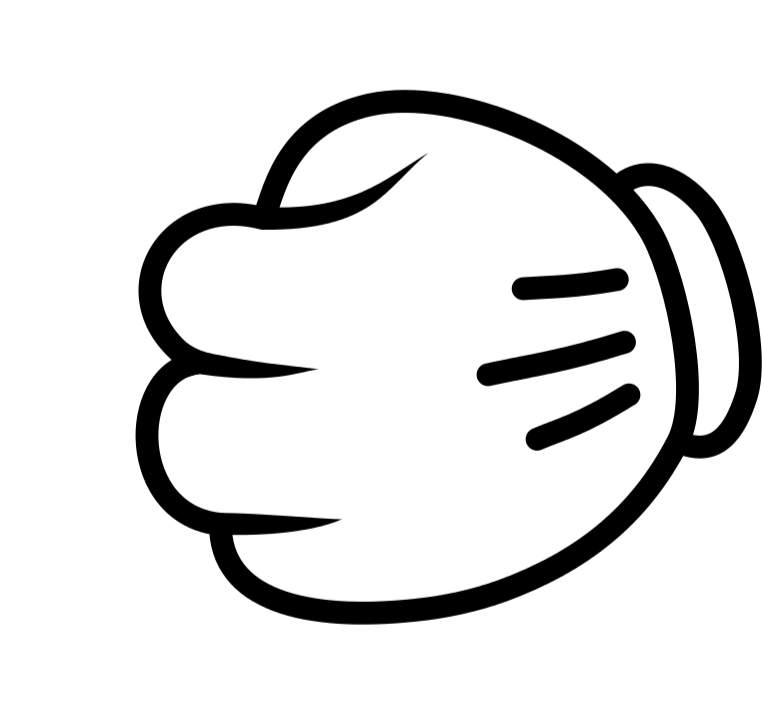
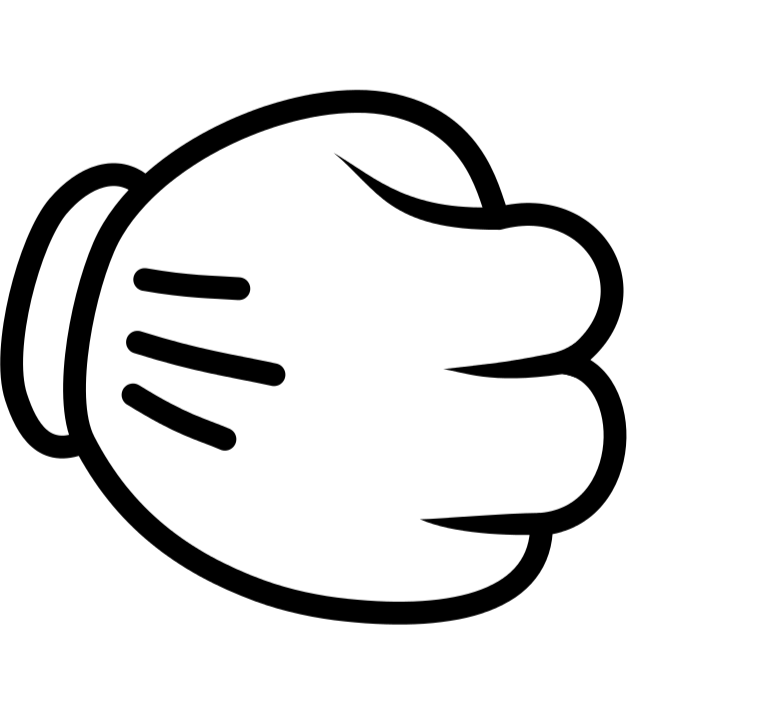
imagens arrumadas

Changed region(s): [[0.0, 0.1241, 1.0, 0.8999]]

diff --git a/src/main/resources/static/script.js b/src/main/resources/static/script.js
@@ -78,6 +78,10 @@ async function jogar(escolhaUsuario) {
         imagemJogador.style.opacity = 1;
         imagemComputador.style.opacity = 1;
 
+
+        // adicionar o imagem invertida
+        imagemComputador.classList.add('imagem-invertida');
+
         // Processa o resultado e atualiza o placar
         processarResultado(resultadoApi);
 

diff --git a/src/main/resources/static/game.html b/src/main/resources/static/game.html
@@ -25,6 +25,7 @@
     <div class="resultado-combate">
         <h2 id="mensagem-final"></h2>
         <p>Sua pontuação: <span id="placar-jogador">0</span></p>
+        <p>Streak: <span id="streak-jogador">0</span></p>
         <p>Pontuação do computador: <span id="placar-computador">0</span></p>
     </div>
 

diff --git a/src/main/resources/static/style.css b/src/main/resources/static/style.css
@@ -135,3 +135,7 @@ h1 {
     border-color: #fdd835;
     box-shadow: 0 0 25px #fdd835, 0 0 10px rgba(255, 255, 0, 0.7);
 }
+
+.imagem-invertida {
+    transform: scaleX(-1);
+}

diff --git a/src/main/java/com/marcossial/rps/Controller/GameController.java b/src/main/java/com/marcossial/rps/Controller/GameController.java
@@ -13,7 +13,8 @@ import java.util.Map;
 
 @RequestMapping("/game")
 @RestController
-@CrossOrigin(origins = "http://localhost:8080")
+//@CrossOrigin(origins = "http://localhost:8080")
+@CrossOrigin(origins = "*")
 public class GameController {
     private final GameService service;
 

diff --git a/src/main/java/com/marcossial/rps/Model/User.java b/src/main/java/com/marcossial/rps/Model/User.java
@@ -22,6 +22,8 @@ public class User {
         this.createdDate = LocalDateTime.now();
     }
 
+
+
     public User(String name, long score) {
         this.name = name;
         this.score = score;
